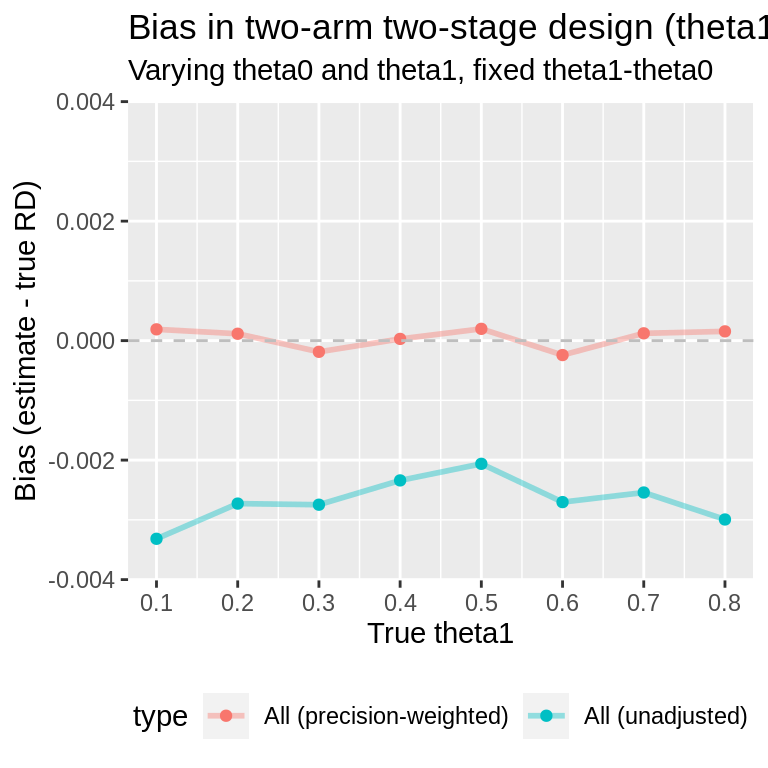
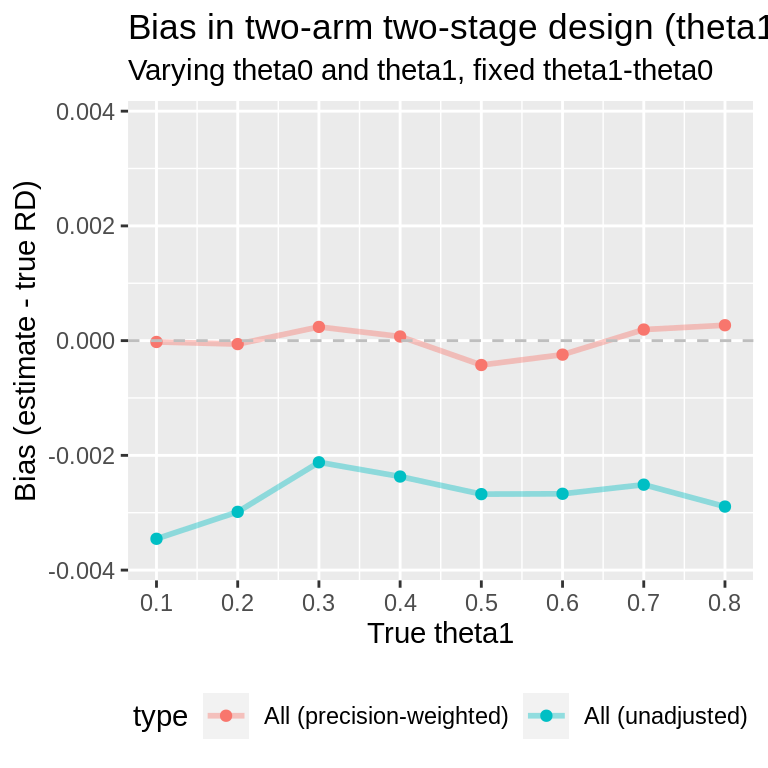
Built site for pwb: 0.0.0.9000@30b0242

diff --git a/articles/GS.html b/articles/GS.html
@@ -102,10 +102,10 @@
                      nsims<span class="op">=</span><span class="va">nsims</span><span class="op">)</span>
   <span class="va">single.GS</span><span class="op">$</span><span class="va">ests</span><span class="op">[</span>, <span class="fl">1</span><span class="op">:</span><span class="fl">5</span><span class="op">]</span>
 <span class="co">#&gt;                          nsims    bias mean.SE emp.SE theta</span>
-<span class="co">#&gt; Stopped early            39047 -0.0454  0.0455 0.0276   0.5</span>
-<span class="co">#&gt; Complete                 60953  0.0246  0.0421 0.0300   0.5</span>
-<span class="co">#&gt; All                     100000 -0.0027  0.0434 0.0449   0.5</span>
-<span class="co">#&gt; All (precision-weghted) 100000  0.0000  0.0433     NA   0.5</span>
+<span class="co">#&gt; Stopped early            38978 -0.0454  0.0455 0.0274   0.5</span>
+<span class="co">#&gt; Complete                 61022  0.0248  0.0421 0.0300   0.5</span>
+<span class="co">#&gt; All                     100000 -0.0025  0.0434 0.0449   0.5</span>
+<span class="co">#&gt; All (precision-weghted) 100000  0.0002  0.0433     NA   0.5</span>
   <span class="fu"><a href="https://rdrr.io/r/base/Round.html" class="external-link">round</a></span><span class="op">(</span><span class="va">single.GS</span><span class="op">$</span><span class="va">mc.error</span>, <span class="fl">5</span><span class="op">)</span>
 <span class="co">#&gt; [1] 0.00014 0.00010</span></code></pre></div>
 <p>How does bias compare when the true response probability is varied? Find results for a vector of true response probabilities:</p>
